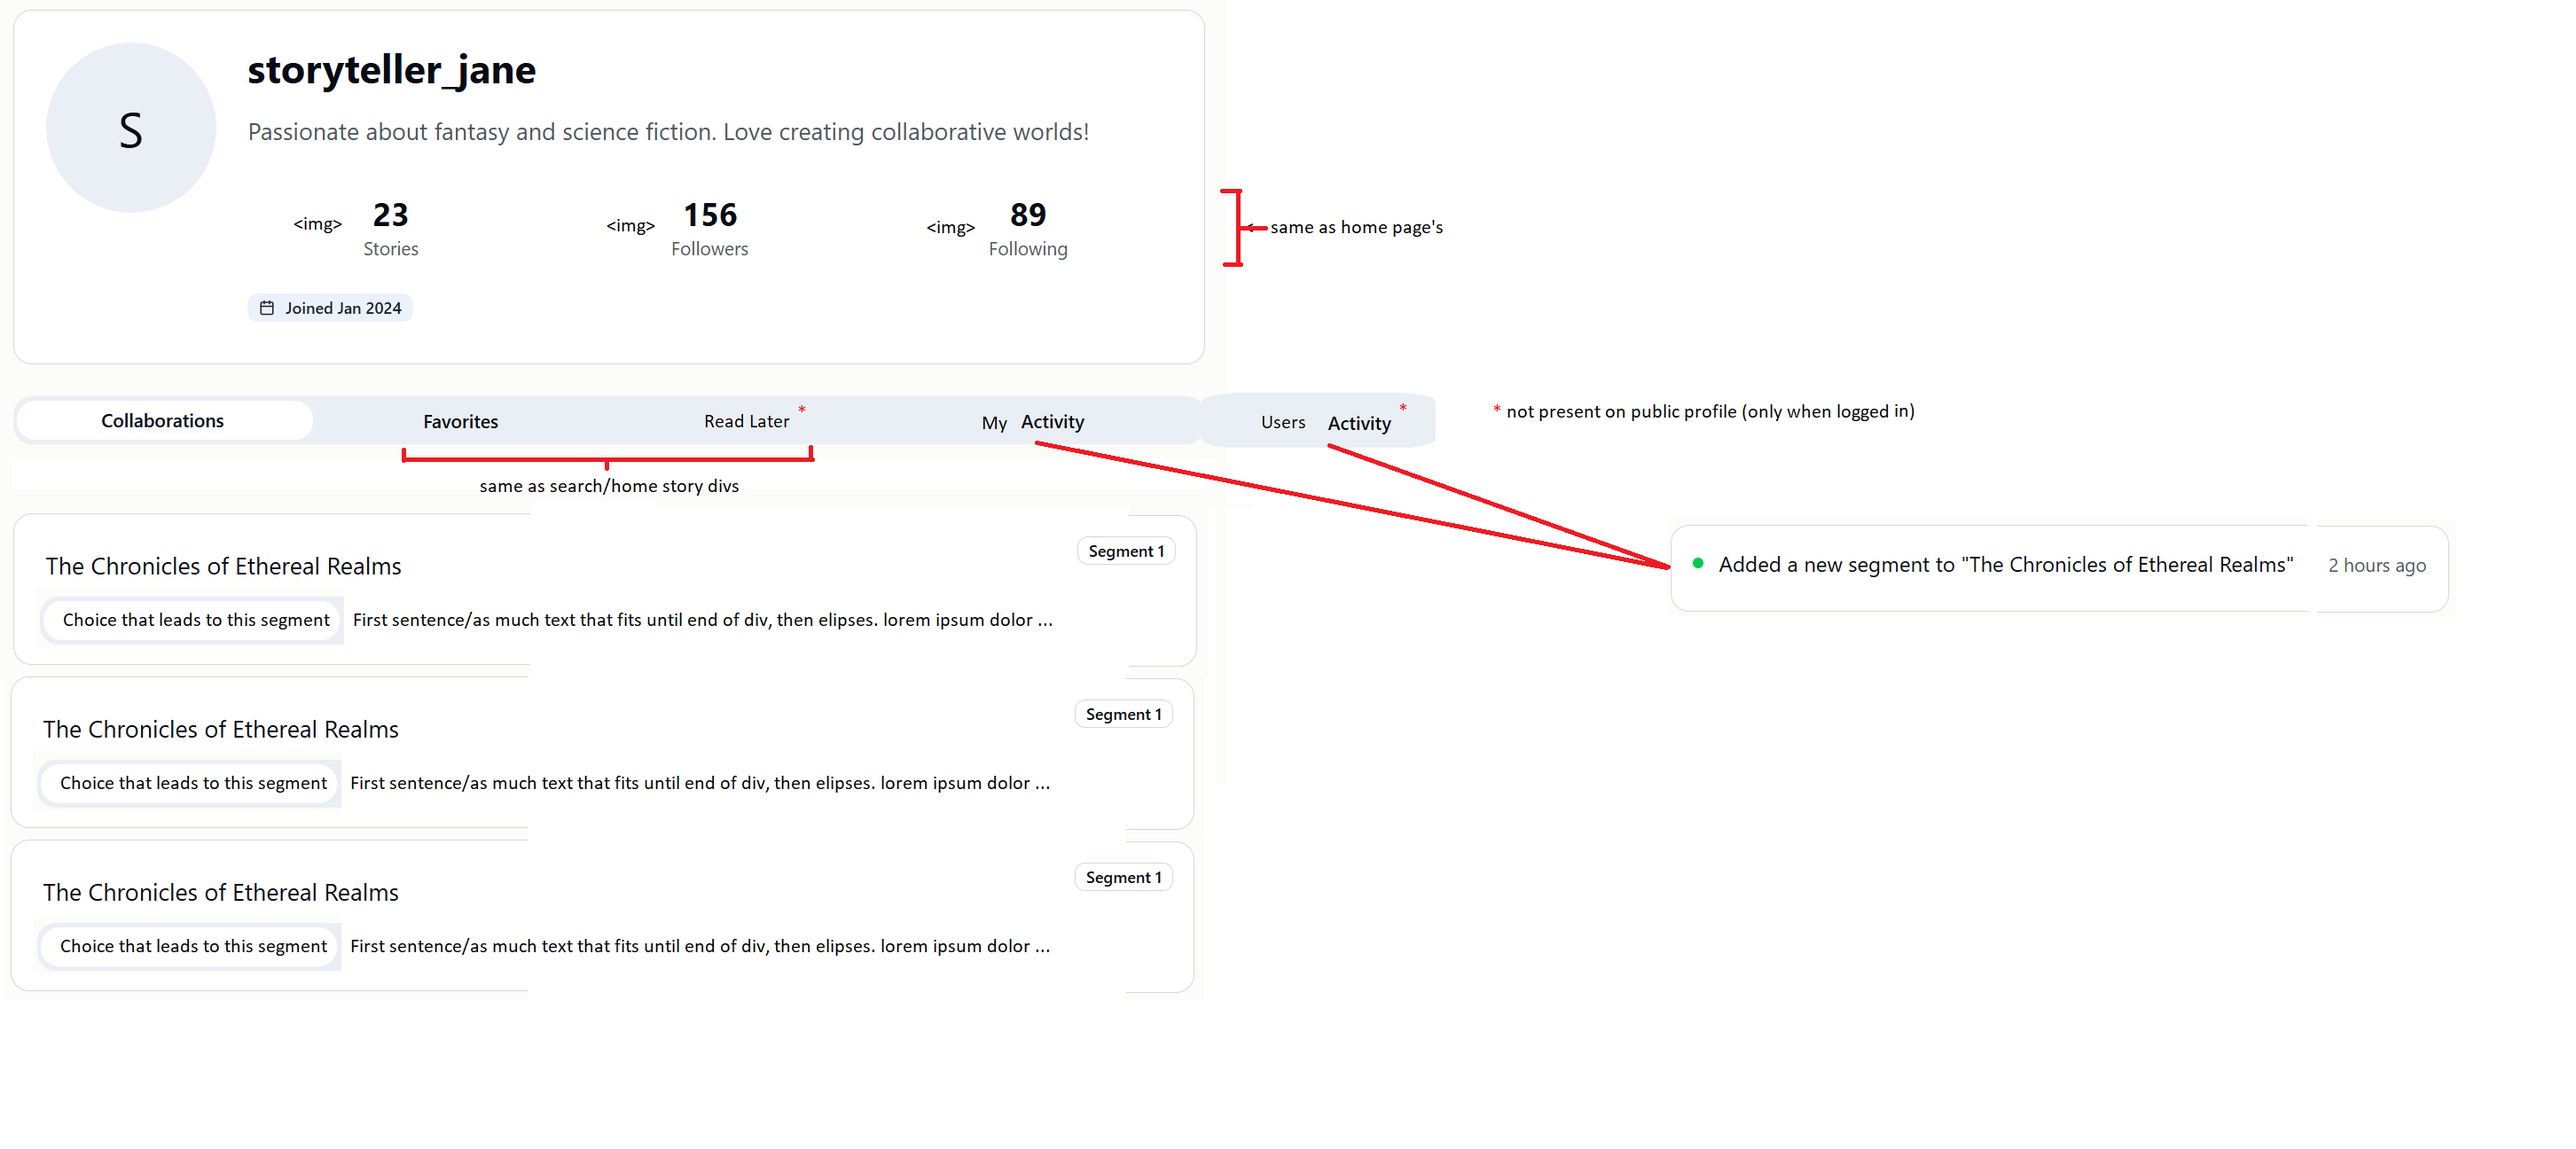
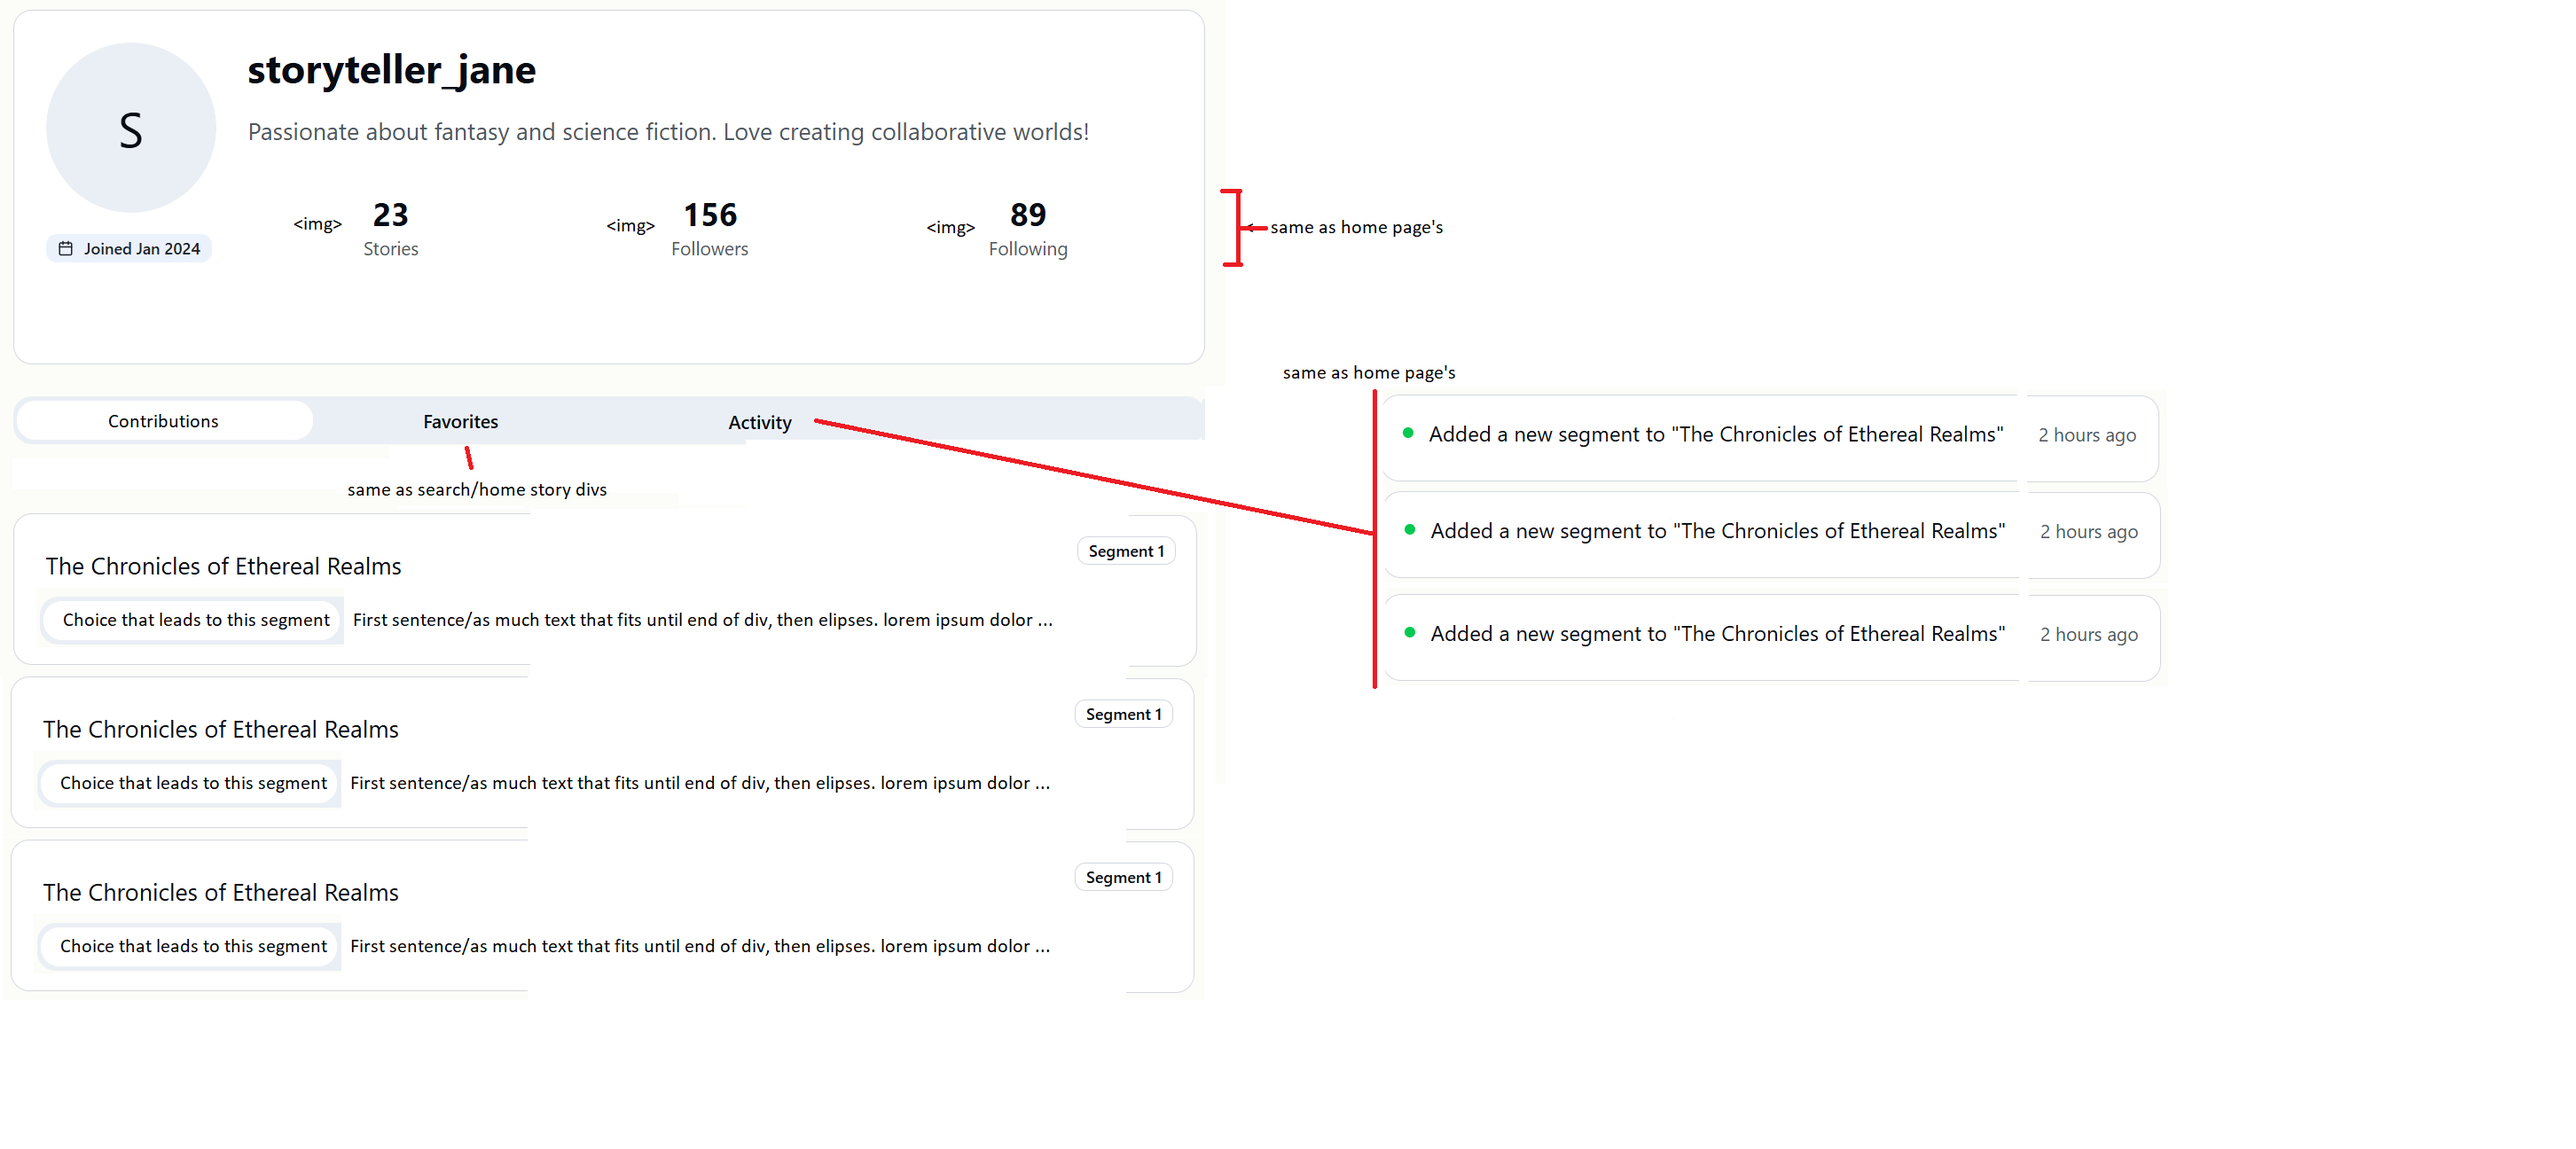
profile page done

diff --git a/src/inkreate/src/pages/Profile/Profile.jsx b/src/inkreate/src/pages/Profile/Profile.jsx
@@ -1,10 +1,80 @@
-
+import { useState } from 'react'
+import UserStats from '../../components/UserStats/UserStats'
+import StoryThumbnailList from '../../components/StoryThumbnailList/StoryThumbnailList'
+import ActivityBoxList from '../../components/ActivityBoxList/ActivityBoxList'
+import ContributionList from '../../components/ContributionList/ContributionList'
 import styles from './Profile.module.css'
+import reactLogo from '../../assets/react.svg'
+import viteLogo from '../../assets/vite.svg'
 
 function Profile() {
+  const [activeTab, setActiveTab] = useState('contributions')
+  // temp_test
+  const aut_list = [reactLogo, viteLogo]
+  const tag_list = ["tag1", "tag2", "tag3"]
+  const stories = [
+    { src: viteLogo, alt:'image', title:"Lorem ipsum dolor sit amet.", desc:"Lorem ipsum, dolor sit amet consectetur adipisicing elit. Sunt, laudantium.",
+      tags: tag_list, authors: aut_list, segments:"23", views:"1250",
+      comments:"89", rating:"4.8", updated:"2 hours" },
+    { src: viteLogo, alt:'image', title:"Lorem ipsum dolor sit amet.", desc:"Lorem ipsum, dolor sit amet consectetur adipisicing elit. Sunt, laudantium.",
+      tags: tag_list, authors: aut_list, segments:"23", views:"1250",
+      comments:"89", rating:"4.8", updated:"2 hours" },
+    { src: viteLogo, alt:'image', title:"Lorem ipsum dolor sit amet.", desc:"Lorem ipsum, dolor sit amet consectetur adipisicing elit. Sunt, laudantium.",
+      tags: tag_list, authors: aut_list, segments:"23", views:"1250",
+      comments:"89", rating:"4.8", updated:"2 hours" },
+  ]
+  const activity = [
+    {src: reactLogo, alt: 'image', username: "loggedin_Username", desc: "Lorem ipsum dolor sit amet.", updated: "2 hours"},
+    {src: reactLogo, alt: 'image', username: "loggedin_Username", desc: "Lorem ipsum dolor sit amet.", updated: "5 hours"},
+    {src: reactLogo, alt: 'image', username: "loggedin_Username", desc: "Lorem ipsum dolor sit amet.", updated: "8 hours"}
+  ]
+  const contributions = [
+    {title: "Story 9", segment: "54", choice: "Choice 321", paragraph: "Lorem ipsum dolor sit amet consectetur adipisicing elit. Iure, optio..."},
+    {title: "Story 666", segment: "2", choice: "Choice 48", paragraph: "Lorem ipsum dolor sit amet consectetur adipisicing elit. Iure, optio..."},
+    {title: "Story 12", segment: "956", choice: "Choice 6", paragraph: "Lorem ipsum dolor sit amet consectetur adipisicing elit. Iure, optio..."},
+  ]
+  //
+
   return (
     <>
-        Profile
+      <section>
+        <img src={reactLogo} alt="" />
+        <div>Joined XX 20XX</div>
+        <h1>Username</h1>
+        <div>Bio</div>
+        <UserStats src={viteLogo} alt='image' number="23" desc="Lorem" />
+        <UserStats src={viteLogo} alt='image' number="156" desc="Lorem" />
+        <UserStats src={viteLogo} alt='image' number="89" desc="Lorem" />
+        <UserStats src={viteLogo} alt='image' number="4.6" desc="Lorem" />
+      </section>
+      <nav>
+          <button
+            className={activeTab === 'contributions' ? styles.active : styles.tab}
+            onClick={() => setActiveTab('contributions')}
+          >
+            <img src={reactLogo} alt="contributions" />
+            Contributions
+          </button>
+          <button
+            className={activeTab === 'favs' ? styles.active : styles.tab}
+            onClick={() => setActiveTab('favs')}
+          >
+            <img src={viteLogo} alt="favs" />
+            Favorites
+          </button>
+          <button
+            className={activeTab === 'activity' ? styles.active : styles.tab}
+            onClick={() => setActiveTab('activity')}
+          >
+            <img src={reactLogo} alt="activity" />
+            Activity
+          </button>
+      </nav>
+      <div>
+        {activeTab === 'contributions' && <ContributionList contributions={contributions} />}
+        {activeTab === 'favs' && <StoryThumbnailList stories={stories} />}
+        {activeTab === 'activity' && <ActivityBoxList activity={activity}/>}
+      </div>
     </>
   )
 }

diff --git a/src/inkreate/src/layout/Header/Header.jsx b/src/inkreate/src/layout/Header/Header.jsx
@@ -15,6 +15,13 @@ function Header() {
         </li>
         <li className={styles.page}>
           <NavLink
+            to="/readStory"
+            className={({ isActive }) => isActive ? styles.active : styles.navLink}>
+            (Reading)
+          </NavLink>
+        </li>
+        <li className={styles.page}>
+          <NavLink
             to="/home"
             className={({ isActive }) => isActive ? styles.active : styles.navLink}>
             <img src={viteLogo} alt="viteLogo" />
@@ -29,9 +36,16 @@ function Header() {
         </li>
         <li className={styles.page}>
           <NavLink
-            to="/readStory"
+            to="/bookmarked"
             className={({ isActive }) => isActive ? styles.active : styles.navLink}>
-            (Reading)
+            Continue Reading
+          </NavLink>
+        </li>
+        <li className={styles.page}>
+          <NavLink
+            to="/readLater"
+            className={({ isActive }) => isActive ? styles.active : styles.navLink}>
+            Planned to Read
           </NavLink>
         </li>
         <li className={styles.page}>
@@ -39,6 +53,13 @@ function Header() {
             to="/writeStory"
             className={({ isActive }) => isActive ? styles.active : styles.navLink}>
             New Story
+          </NavLink>
+        </li>
+        <li className={styles.page}>
+          <NavLink
+            to="/activity"
+            className={({ isActive }) => isActive ? styles.active : styles.navLink}>
+            👨💼
           </NavLink>
         </li>
         <li className={styles.page}>

diff --git a/src/inkreate/src/App.jsx b/src/inkreate/src/App.jsx
@@ -43,10 +43,13 @@ function App() {
           <Route path="/authentication" element={<Authentication />} />
         </Route>
         <Route element={<MainLayout />}>
+          <Route path="/readStory" element={<ReadStory />} />
           <Route path="/home" element={<Home />} />
           <Route path="/search" element={<Search />} />
-          <Route path="/readStory" element={<ReadStory />} />
+          {/* <Route path="/bookmarked" element={<??? />} /> */}
+          {/* <Route path="/readLater" element={<??? />} /> */}
           <Route path="/writeStory" element={<WriteStory />} />
+          {/* <Route path="/activity" element={<??? />} /> */}
           <Route path="/chat" element={<Chat />} />
           <Route path="/settings" element={<Settings />} />
           <Route path="/profile" element={<Profile />} />

diff --git a/src/inkreate/src/components/ContributionList/ContributionList.jsx b/src/inkreate/src/components/ContributionList/ContributionList.jsx
@@ -1,0 +1,18 @@
+
+import Contribution from '../Contribution/Contribution'
+import styles from './ContributionList.module.css'
+
+function ContributionList({contributions}) {
+  return (
+    <div>
+      {contributions.map((contribution, index) => (
+        <Contribution
+          key={index}
+          {...contribution}
+        />
+      ))}
+    </div>
+  )
+}
+
+export default ContributionList

diff --git a/src/inkreate/src/components/Contribution/Contribution.jsx b/src/inkreate/src/components/Contribution/Contribution.jsx
@@ -1,0 +1,19 @@
+
+import styles from './Contribution.module.css'
+
+function Contribution({title, segment, choice, paragraph}) {
+  return (
+    <div>
+      <div>
+        <h2>{title}</h2>
+        <div>Segment #{segment}</div>
+      </div>
+      <div>
+        <div>{choice}</div>
+        <div>{paragraph}</div>
+      </div>
+    </div>
+  )
+}
+
+export default Contribution

diff --git a/src/inkreate/src/components/ActivityBoxList/ActivityBoxList.jsx b/src/inkreate/src/components/ActivityBoxList/ActivityBoxList.jsx
@@ -1,0 +1,18 @@
+
+import ActivityBox from '../ActivityBox/ActivityBox'
+import styles from './ActivityBoxList.module.css'
+
+function ActivityBoxList({activity}) {
+  return (
+    <div>
+      {activity.map((activity, index) => (
+        <ActivityBox
+          key={index}
+          {...activity}
+        />
+      ))}
+    </div>
+  )
+}
+
+export default ActivityBoxList

diff --git a/src/inkreate/src/components/SettingsTabs/SettingsTabs.jsx b/src/inkreate/src/components/SettingsTabs/SettingsTabs.jsx
@@ -215,7 +215,7 @@ function Profile() {
 }
 
 function SettingsTabs() {
-  const [activeTab, setActiveTab] = useState('profile');
+  const [activeTab, setActiveTab] = useState('profile')
 
   return (
     <div className={styles.component}>

diff --git a/src/inkreate/src/pages/Profile/Profile.module.css b/src/inkreate/src/pages/Profile/Profile.module.css
@@ -1,0 +1,17 @@
+.component
+{
+    /* width: 500px; */
+}
+
+.tab
+{
+  list-style: none;
+  text-align: center;
+  padding: 0 20px;
+}
+
+.active
+{
+    composes: tab;
+    background-color: green;
+}
